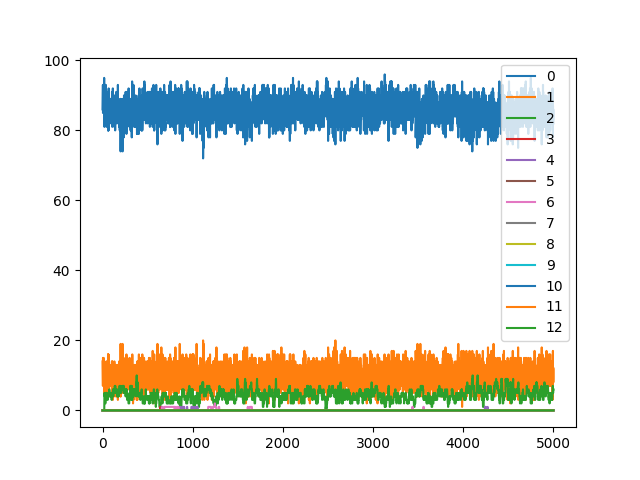
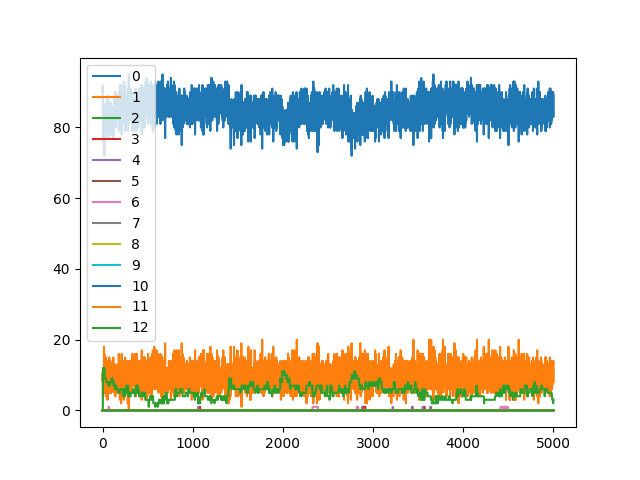
bunch of stuff got added that will need to be removed again... also mesa

diff --git a/party.py b/party.py
@@ -1,0 +1,122 @@
+import utils
+
+import numpy as np
+import random
+from mesa import Agent, Model, space, time
+
+class Party_agent(Agent):
+    def __init__(self,
+                 unique_id,
+                 model,
+                 prob_stimulus = 0,
+                 prob_interaction = 0,
+                 prob_move = 0,
+                 until_eligible = 0,
+                 characteristics_affected = {'active' : .5, 
+                                             'overt' : .5, 
+                                             'continuous' : .5, 
+                                             'expressive' : .5, 
+                                             'outtaking' : .5}):
+        self.unique_id = unique_id
+        self.model = model
+        self.inner_model = Party_model(self,
+                                       prob_stimulus,
+                                       prob_interaction,
+                                       prob_move,
+                                       until_eligible,
+                                       characteristics_affected)
+        self.fitness = self.advance()
+
+
+    def step(self):
+        self.inner_model.step()
+
+
+    def advance(self):
+        ## TODO: figure out what the fitness should be
+        # total political participation
+        self.fitness = np.sum(self.inner_model.get_pps())
+        # total number of voters
+        # self.fitness = self.inner_model.get_voters()
+
+
+class Party_model(Model):
+    '''
+    description: a Party object holds the environment parameters and manages all the agents. 
+    inputs:
+        - prob_stimulus: optional, probability that a stimulus happens to all agents each step
+        - prob_interaction = optional, probability that an agent interacts each step,
+        - prob_move = optional, probability that an agent moves community,
+        - until_eligible = optional, steps needed for new agents to be allowed to vote,
+        - characteristics_affected = optional, dictionary of affected characteristics when agent is 
+          exposed to stimulus
+    functions:
+        - add_agent(agent): adds an agent to the model
+        - step(): updates environment and takes a step for each agent
+        - get_pps(): returns data of all agents' political participation over time
+    '''
+    
+    def __init__(self,
+                 #outer_agent,
+                 prob_stimulus,
+                 prob_interaction,
+                 prob_move,
+                 until_eligible,
+                 characteristics_affected):
+        '''
+        description: initializes new Model object
+        inputs:
+            - prob_stimulus: probability that a stimulus happens to all agents each step
+            - prob_interaction = probability that an agent interacts each step,
+            - prob_move = probability that an agent moves community,
+            - until_eligible = steps needed for new agents to be allowed to vote,
+            - characteristics_affected = dictionary of effect of stimulus on agent
+        '''
+        #self.outer_agent = outer_agent
+        self.prob_stimulus = utils.set_valid(prob_stimulus, upper = 1, verbose = True, name = 'p')
+        self.prob_interaction = utils.set_valid(prob_interaction, upper = 1, verbose = True, name = 'q')
+        self.prob_move = utils.set_valid(prob_move, upper = 1, verbose = True, name = 'r')
+        self.until_eligible = until_eligible
+        self.characteristics_affected = characteristics_affected
+
+        self.schedule = time.RandomActivation(self)
+        self.time = 0
+        self.agents = np.array([])
+        self.stimulus = False
+
+
+    def add_agent(self, agent):
+        '''
+        description: adds agent to the model
+        input:
+            - agent object to add to the model
+        '''
+        self.agents = np.append(self.agents, agent)
+        self.schedule.add(agent)
+
+
+    def step(self):
+        '''
+        description: updates environment and takes a step for each agent
+        '''
+        self.time += 1 # TODO: might already be tracked in scheduler
+
+        # check whether stimulus happens for all agents
+        self.stimulus = random.uniform(0, 1) < self.prob_stimulus
+        
+        self.schedule.step()
+
+
+    def get_pps(self):
+        '''
+        description: returns data of all agents' political participation over time
+        output:
+             - ndarray of shape (n_agents, time) of the political participation of each agent at each timestep
+        '''
+        return np.array([agent.pps for agent in self.agents])
+
+
+    def get_voters(self):
+        return len([1 for agent in self.agents if agent.pps >= 2])
+
+

diff --git a/agents.py b/agents.py
@@ -19,8 +19,9 @@ from utils import set_valid
 
 import numpy as np
 import random
+from mesa import Agent, Model, space, time
 
-class Agent(object):
+class Member(object):
     '''
     description: an Agent object represents a person in a community that has a political 
                  participation based on characteristics, which are in turn modified by 
@@ -54,7 +55,7 @@ class Agent(object):
     '''
 
     def __init__(self, 
-                 name,
+                 unique_id,
                  model,
                  until_eligible = 0,
                  vote_duty = False,
@@ -74,23 +75,8 @@ class Agent(object):
                                    'outtaking' : .5}):
         '''
         description: initializes a new Agent object
-        inputs:
-            - name: unique identifier of agent
-            - model: model object agent is a part of
-            - until_eligible: optional, number of steps until an agent can vote
-            - vote_duty: optional, whether agent must vote
-            - active: optional, one of the agent's charactaristics
-            - overt: optional, one of the agent's charactaristics
-            - autonomous: optional, one of the agent's charactaristics
-            - continuous: optional, one of the agent's charactaristics
-            - outtaking: optional, one of the agent's charactaristics
-            - expressive: optional, one of the agent's charactaristics
-            - social: optional, one of the agent's charactaristics
-            - ses: optional, socio-economic status
-            - char_modifiers: optional, dictionary with tendencies for characteristics 
-              to change according to stimulus (>.5 = up, <.5 = down)
         '''
-        self.name = name
+        self.unique_id = unique_id
         self.model = model
         self.until_eligible = until_eligible
         self.vote_duty = vote_duty
@@ -111,7 +97,24 @@ class Agent(object):
         
         # initialize ppz
         self.update_pp()
+
+    
+    def step(self):
+        # perform stimulus if applicable
+        if self.model.stimulus:
+            self.stimulus(self.model.characteristics_affected.keys())
         
+        # let agent interact according to probability
+        if random.uniform(0, 1) < self.model.prob_interaction:
+            self.interact()
+        
+        # move agent according to probability
+        if random.uniform(0, 1) < self.model.prob_move:
+            self.move_community()
+        
+        self.age()
+        self.update_pp()
+
 
     def modify_characteristic(self, characteristic):
         '''

diff --git a/run.py b/run.py
@@ -1,6 +1,6 @@
 # internal imports
-from model import Model
-from agents import Agent
+from party import Party_model
+from agents import Member
 
 # external imports
 import sys
@@ -10,14 +10,14 @@ import matplotlib.pyplot as plt
 import numpy as np
 from scipy import stats
 from importlib import import_module
-
+from mesa import Agent, Model, space, time
 
 ## import parameter configuration from file (default: configs.normal)
 params = import_module('configs.' + ('normal' if len(sys.argv) < 2 else sys.argv[1]))
 
 
 ## create model
-model = Model(prob_stimulus = params.prob_stimulus, 
+model = Party_model(prob_stimulus = params.prob_stimulus, 
               prob_interaction = params.prob_interaction,   
               prob_move = params.prob_move,
               until_eligible = params.until_eligible,
@@ -36,7 +36,7 @@ elif params.char_distr == 'uniform': # uniform distribution within limits
 
 # intialize each agent
 for idx in range(params.n_agents):
-    model.add_agent(Agent(idx, 
+    model.add_agent(Member(idx, 
                           model,
                           # TODO: would be more natural to make this chance related to prob_move.
                           until_eligible = 0 if random.uniform(0, 1) < .8 else params.until_eligible, 
